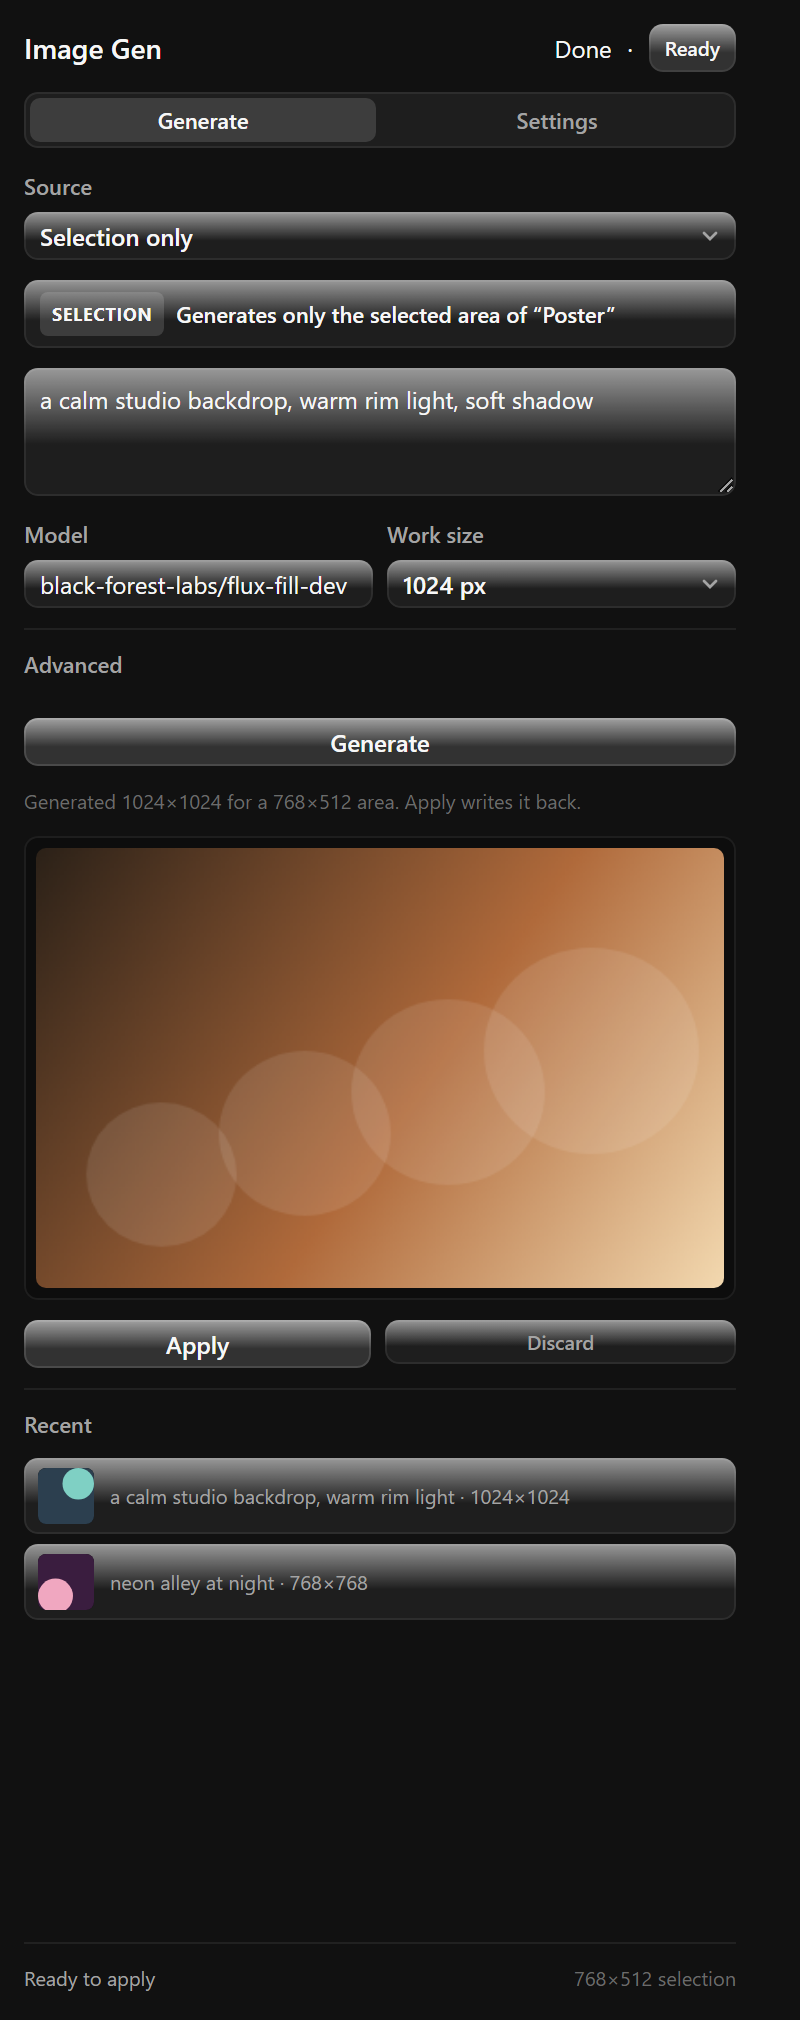
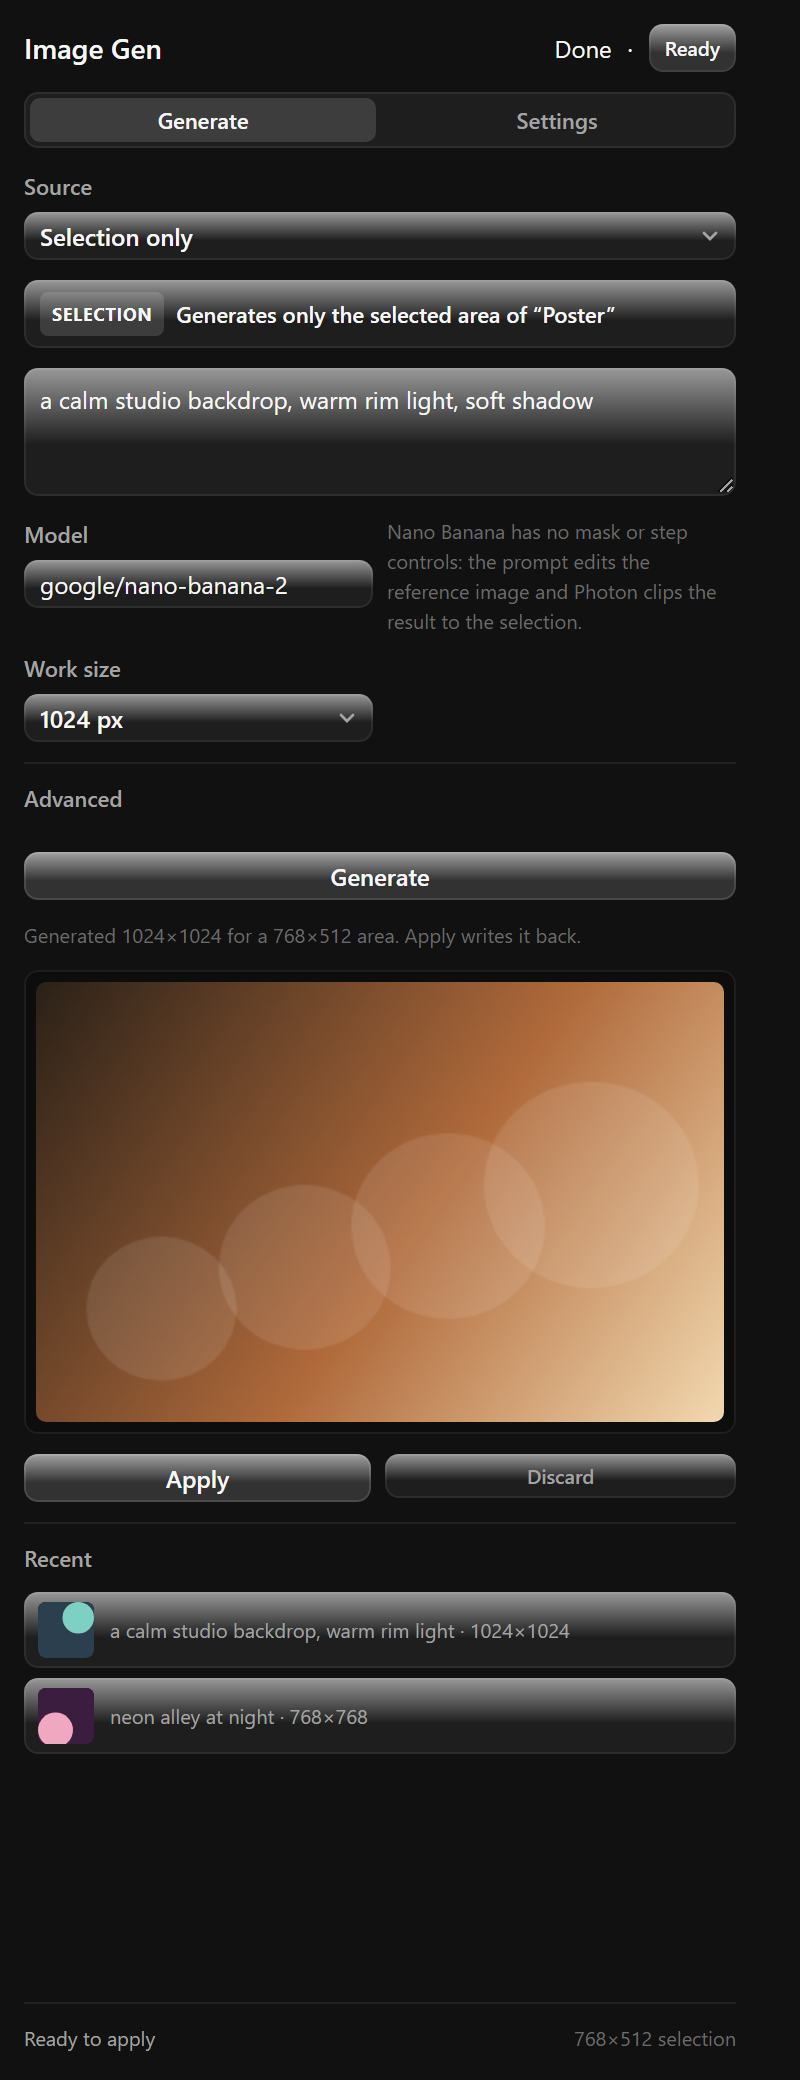
feat: default to google/nano-banana-2 with a model-aware Replicate input builder

diff --git a/plugin/app.js b/plugin/app.js
@@ -25,6 +25,7 @@ const el = {
   sourceLabel: document.getElementById("sourceLabel"),
   prompt: document.getElementById("prompt"),
   model: document.getElementById("model"),
+  modelHint: document.getElementById("modelHint"),
   size: document.getElementById("size"),
   steps: document.getElementById("steps"),
   guidance: document.getElementById("guidance"),
@@ -154,6 +155,8 @@ async function loadSettings() {
   settings = { ...defaultSettings(), ...(stored || {}) };
   settings.custom = { ...Providers.CUSTOM_DEFAULTS, ...((stored && stored.custom) || {}) };
   settings.history = Array.isArray(settings.history) ? settings.history.slice(0, 6) : [];
+  // 0.3.0 moved the default to Nano Banana 2; drop the old default so upgrades follow.
+  if (settings.model === "black-forest-labs/flux-fill-dev") settings.model = Core.DEFAULTS.model;
 }
 
 async function persist() {
@@ -195,6 +198,7 @@ function writeSettingsToUi() {
   el.source.value = settings.source === "layer" ? "layer" : "selection";
   el.provider.value = settings.provider;
   el.model.value = settings.model;
+  updateModelHint();
   el.baseUrl.value = settings.baseUrl || "";
   el.size.value = settings.size || "auto";
   el.steps.value = String(settings.steps);
@@ -500,6 +504,16 @@ async function testConnection() {
 
 /* ---------- source chip & wiring ---------- */
 
+function updateModelHint() {
+  const model = el.model.value.trim();
+  if (Providers.modelFamily(model) === "nano-banana") {
+    el.modelHint.textContent =
+      "Nano Banana has no mask or step controls: the prompt edits the reference image and Photon clips the result to the selection.";
+  } else {
+    el.modelHint.textContent = "Mask, steps and guidance are sent when the model supports them.";
+  }
+}
+
 async function refreshSourceChip() {
   try {
     const doc = await api.documents.active();
@@ -566,6 +580,8 @@ function wire() {
     void refreshSourceChip();
     void persist();
   });
+  el.model.addEventListener("input", updateModelHint);
+  el.model.addEventListener("change", updateModelHint);
   el.prompt.addEventListener("input", () => {
     el.reason.textContent = el.prompt.value.trim()
       ? "Ready to generate inside " + (el.sourceTag.textContent === "Selection" ? "the selection" : "the layer") + "."

diff --git a/plugin/providers.js b/plugin/providers.js
@@ -39,6 +39,7 @@
   };
 
   const MODEL_PRESETS = [
+    { id: "google/nano-banana-2", label: "Nano Banana 2 — edit & generate (default)" },
     { id: "black-forest-labs/flux-fill-dev", label: "FLUX Fill Dev — inpainting" },
     { id: "black-forest-labs/flux-dev", label: "FLUX Dev — image to image" },
     { id: "black-forest-labs/flux-schnell", label: "FLUX Schnell — fast text to image" },
@@ -84,8 +85,31 @@
     return { owner, name, version: null, spec: text };
   }
 
-  /** Replicate input object; key names follow the common image-model schemas. */
+  /** Nano Banana models take reference images instead of a masked inpainting input. */
+  function modelFamily(model) {
+    const spec = String(model || "");
+    if (/nano-?banana/i.test(spec)) return "nano-banana";
+    return "standard";
+  }
+
+  function supportsMask(model) {
+    return modelFamily(model) === "standard";
+  }
+
+  /** Replicate input object; key names follow each model's published schema. */
+
   function replicateInput(request) {
+    if (modelFamily(request.model) === "nano-banana") {
+      // Schema: prompt, image_input (max 14 URIs), aspect_ratio, match_input_image, output_format, seed.
+      // No mask, steps or guidance — sending them would be rejected by the model validator.
+      const input = { prompt: request.prompt, output_format: "png" };
+      if (request.image) {
+        input.image_input = [request.image];
+        input.match_input_image = true;
+      }
+      if (request.seed !== null && request.seed !== undefined && request.seed !== "") input.seed = Number(request.seed);
+      return input;
+    }
     const input = { prompt: request.prompt };
     if (request.image) input.image = request.image;
     if (request.mask) input.mask = request.mask;
@@ -276,6 +300,8 @@
     providerInfo,
     credentialRef,
     parseModelSpec,
+    modelFamily,
+    supportsMask,
     replicateInput,
     buildReplicateRequest,
     buildReplicatePoll,

diff --git a/plugin/pipeline.js b/plugin/pipeline.js
@@ -414,18 +414,21 @@
       : Number(settings.size) || Core.WORK_SIZES[2];
     const plan = Core.planSize(source.width, source.height, targetSize, Core.MAX_PIXELS);
     const baseImage = resizeRgba(source.pixels, source.width, source.height, plan.width, plan.height);
-    const maskImage = Core.scaleMask(source.mask, source.maskWidth, source.maskHeight, plan.width, plan.height);
+    const sendMask = settings.provider === "custom" || Providers.supportsMask(settings.model);
+    const maskImage = sendMask
+      ? Core.scaleMask(source.mask, source.maskWidth, source.maskHeight, plan.width, plan.height)
+      : null;
 
     progress(0.22, "Encoding…");
     const imageUri = await encodeDataUri(api, plan.width, plan.height, baseImage);
-    const maskUri = await encodeDataUri(api, plan.width, plan.height, maskImage);
+    const maskUri = maskImage ? await encodeDataUri(api, plan.width, plan.height, maskImage) : null;
     const bare = imageUri.split(",").pop();
-    const bareMask = maskUri.split(",").pop();
+    const bareMask = maskUri ? maskUri.split(",").pop() : null;
     const payload = {
       model: settings.model,
       prompt: options.prompt,
       image: settings.custom && settings.custom.imageSource === "base64" ? bare : imageUri,
-      mask: settings.custom && settings.custom.imageSource === "base64" ? bareMask : maskUri,
+      mask: maskUri ? (settings.custom && settings.custom.imageSource === "base64" ? bareMask : maskUri) : null,
       width: plan.width,
       height: plan.height,
       seed: options.seed,

diff --git a/plugin/index.html b/plugin/index.html
@@ -43,6 +43,7 @@
             <label class="label" for="model">Model</label>
             <input id="model" class="input" type="text" spellcheck="false" placeholder="owner/name or owner/name:version" />
           </div>
+        <p id="modelHint" class="hint"></p>
           <div class="field">
             <label class="label" for="size">Work size</label>
             <span class="select">

diff --git a/plugin/core.js b/plugin/core.js
@@ -15,7 +15,7 @@
   const DEFAULTS = {
     provider: "replicate",
     source: "selection",
-    model: "black-forest-labs/flux-fill-dev",
+    model: "google/nano-banana-2",
     size: "auto",
     steps: 28,
     guidance: 3.5,

diff --git a/README.md b/README.md
@@ -52,12 +52,17 @@ lands as a new layer aligned to the layer's bounds.
 
 ### Replicate
 
+- **Default: `google/nano-banana-2`** (Gemini 3.1 Flash Image). Its schema takes `prompt`,
+  `image_input` (up to 14 reference images), `aspect_ratio`, `match_input_image`, `output_format`
+  and `seed`; it has **no mask or step controls**, so the plugin sends the selected crop as the
+  reference image and Photon clips the returned image to the selection.
 - Model field accepts `owner/name` (official models) or `owner/name:version` (pinned community
-  version).
+  version). Masks, steps and guidance are only sent for models that declare them (e.g. FLUX Fill).
 - Submit uses `Prefer: wait=60`, then polls `GET /v1/predictions/{id}` every 1.5 s (max 180 s); the
   output URL is downloaded as bytes.
-- Suggested models: `black-forest-labs/flux-fill-dev` (inpainting),
-  `black-forest-labs/flux-dev` (image to image), `stability-ai/stable-diffusion-inpainting`.
+- Other presets: `black-forest-labs/flux-fill-dev` (inpainting with a mask),
+  `black-forest-labs/flux-dev` (image to image), `black-forest-labs/flux-schnell` (fast text to
+  image).
 - The API key is stored in Photon's credential vault and sent as `Authorization: Bearer …`; it is
   never written to plugin settings or logs.
 
@@ -85,7 +90,7 @@ Placeholders are JSON-escaped, so prompts with quotes cannot break the template.
 | Prompt | up to 2 000 chars | What to generate inside the selection |
 | Model | text | `owner/name[:version]` for Replicate, free text for custom |
 | Work size | Auto / 512 / 768 / 1024 / 1536 | Size sent to the provider; the result is scaled back to the selection |
-| Steps / Guidance | — | Passed to providers that support them |
+| Steps / Guidance | — | Passed only to models that declare them (ignored by Nano Banana) |
 | Seed | empty = random | Reproducibility |
 | Margin (px) | 0–256 | Grows the capture rectangle around the selection for context |
 | Strength | 0.1–1 | Image-to-image strength where supported |
@@ -123,6 +128,18 @@ node tools/bench.cjs            # mask/size timings and provider payload sizes
 ```
 
 ## Changelog
+
+### 0.3.0
+
+- **Default model is now `google/nano-banana-2`**, built against its published schema:
+  `prompt` + `image_input` (array, up to 14 reference images) + `match_input_image` +
+  `output_format: png` + `seed`. Mask/steps/guidance/strength are no longer sent to it, so Replicate
+  validation passes; selection edits work by sending the selected crop and letting Photon clip the
+  result through the capture coverage.
+- Model-aware input builder (`modelFamily` / `supportsMask`); the mask is only encoded and uploaded
+  for models that accept it.
+- Upgrade migration: a stored old default (`black-forest-labs/flux-fill-dev`) becomes Nano Banana 2.
+- Tests: 55.
 
 ### 0.2.0
 
